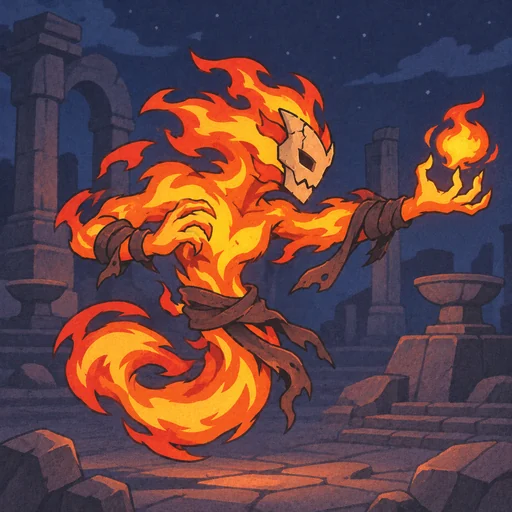
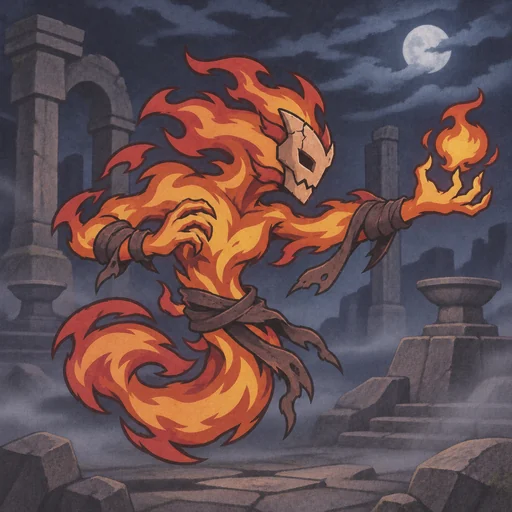
Arte propio: todo el mazo Rojo, Campeones con el estilo nuevo y el primer Perfecto
- Criaturas propias para las 12 criaturas del mazo inicial Rojo (5 Campeones y 8 Novatos).
- Los 5 Campeones anteriores se redibujaron con el estilo nuevo, más pictórico y de tonos tierra.
- Carta 007 (Perfecto): serpiente emplumada.
- Test: cada criatura del mazo Rojo tiene arte propio.

diff --git a/src/ui/art.ts b/src/ui/art.ts
@@ -20,11 +20,29 @@ export interface CustomArt {
 }
 
 export const CUSTOM_ART: Partial<Record<number, CustomArt>> = {
+  // Facción Roja: Perfectos
+  7: { file: '/art/LC007.webp', creature: 'Serpiente emplumada', habitat: { es: 'Valle con un río', en: 'River valley' } }, // Garudamon
+  // Facción Roja: Campeones
   15: { file: '/art/LC015.webp', creature: 'Simio guerrero', habitat: { es: 'Selva de montaña', en: 'Mountain jungle' } }, // Apemon
+  16: { file: '/art/LC016.webp', creature: 'Jabalí de guerra', habitat: { es: 'Robledal en invierno', en: 'Oak forest in winter' } }, // Tyrannomon
   17: { file: '/art/LC017.webp', creature: 'Dinosaurio acorazado', habitat: { es: 'Estepa seca', en: 'Dry steppe' } }, // Monochromon
   18: { file: '/art/LC018.webp', creature: 'Espíritu de las brasas', habitat: { es: 'Ruinas de un templo', en: 'Temple ruins' }, element: 'fire' }, // Meramon
   19: { file: '/art/LC019.webp', creature: 'Centauro arquero', habitat: { es: 'Bosque de otoño', en: 'Autumn forest' } }, // Centarumon
+  20: { file: '/art/LC020.webp', creature: 'Gallo guardián', habitat: { es: 'Acantilado con una torre en ruinas', en: 'Cliff with a ruined tower' } }, // Birdramon
   26: { file: '/art/LC026.webp', creature: 'Reptil rayado del cañón', habitat: { es: 'Cañón de arenisca', en: 'Sandstone canyon' } }, // Flarerizamon
+  // Facción Roja: Novatos
+  27: { file: '/art/LC027.webp', creature: 'Jabato de crin roja', habitat: { es: 'Robledal en otoño', en: 'Oak forest in autumn' } }, // Agumon
+  29: { file: '/art/LC029.webp', creature: 'Pollito caballero', habitat: { es: 'Corral en ruinas', en: 'Ruined courtyard' } }, // Biyomon
+  30: { file: '/art/LC030.webp', creature: 'Escarabajo de carga', habitat: { es: 'Bosque bajo la lluvia', en: 'Forest in the rain' } }, // Muchomon
+  33: { file: '/art/LC033.webp', creature: 'Mangosta hondera', habitat: { es: 'Orilla de un río con cañas', en: 'Reedy riverbank' } }, // Goburimon
+  175: { file: '/art/LC175.webp', creature: 'Canguro boxeador', habitat: { es: 'Sabana con termiteros', en: 'Savanna with termite mounds' } }, // Veemon
+  // Facción Sombría: Campeones
+  126: { file: '/art/LC126.webp', creature: 'Hiena de las llaves', habitat: { es: 'Depósito de carretas viejas', en: 'Old cart yard' } }, // Gururumon
+  130: { file: '/art/LC130.webp', creature: 'Camaleón del manglar', habitat: { es: 'Manglar con neblina', en: 'Misty mangrove' } }, // Darkrizamon
+  // Facción Sombría: Novatos
+  133: { file: '/art/LC133.webp', creature: 'Lémur ladrón', habitat: { es: 'Huerto abandonado', en: 'Abandoned orchard' } }, // BKGatomon
+  134: { file: '/art/LC134.webp', creature: 'Escorpión de la vasija', habitat: { es: 'Dunas del desierto', en: 'Desert dunes' } }, // Kokuwamon
+  135: { file: '/art/LC135.webp', creature: 'Polilla de papel', habitat: { es: 'Biblioteca en ruinas', en: 'Ruined library' } }, // Tsukaimon
 };
 
 export function isCustomArt(cardId: number): boolean {

diff --git a/tests/customArt.test.ts b/tests/customArt.test.ts
@@ -4,14 +4,22 @@
 import { existsSync } from 'node:fs';
 import { join } from 'node:path';
 import { describe, expect, it } from 'vitest';
+import { cards } from '../src/engine/cards/db';
+import { starterDecks } from '../src/engine/cards/decks';
 import { artUrl, CUSTOM_ART, isCustomArt } from '../src/ui/art';
 
 describe('card art', () => {
   it('uses our own art when the card has it, and the original disc art otherwise', () => {
     expect(artUrl(15)).toBe(CUSTOM_ART[15]!.file);
     expect(isCustomArt(15)).toBe(true);
-    expect(artUrl(27)).toBe('/card-art/LC027.png');
-    expect(isCustomArt(27)).toBe(false);
+    expect(artUrl(1)).toBe('/card-art/LC001.png');
+    expect(isCustomArt(1)).toBe(false);
+  });
+
+  it('every creature of the Red starter deck has our own art', () => {
+    const red = starterDecks.find((d) => d.name === 'Red')!;
+    const creatures = [...new Set(red.cards)].filter((id) => cards[id].kind === 'digimon');
+    expect(creatures.filter((id) => !isCustomArt(id))).toEqual([]);
   });
 
   it.skipIf(!existsSync('public/art'))('every custom art file exists in public/', () => {
